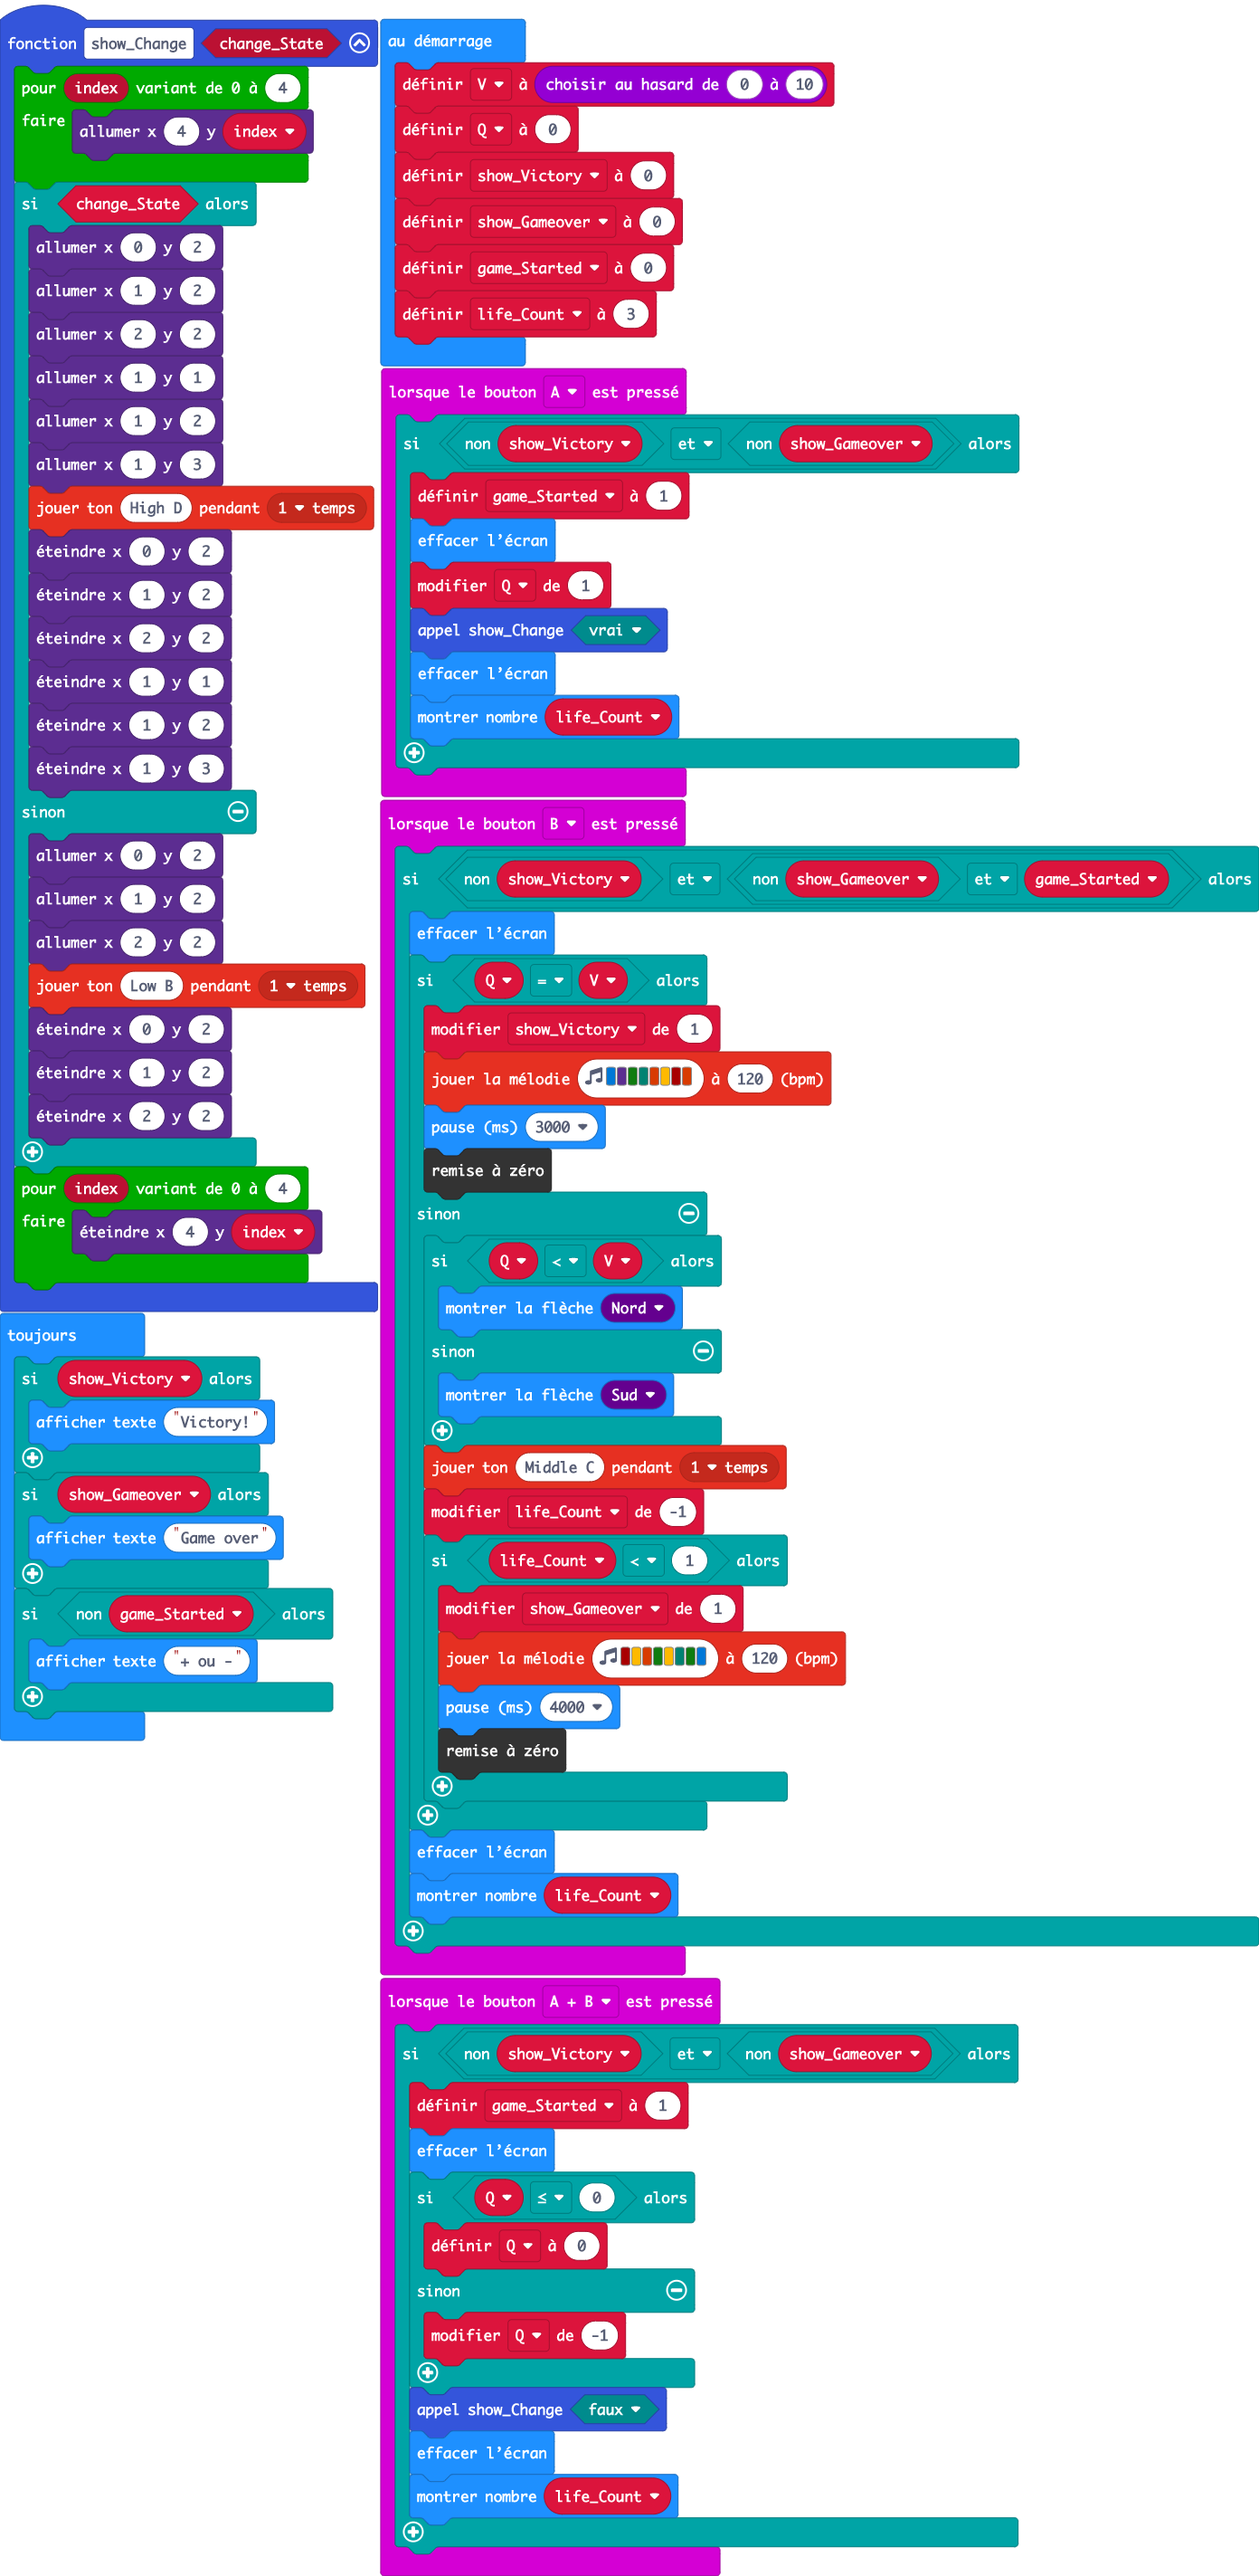
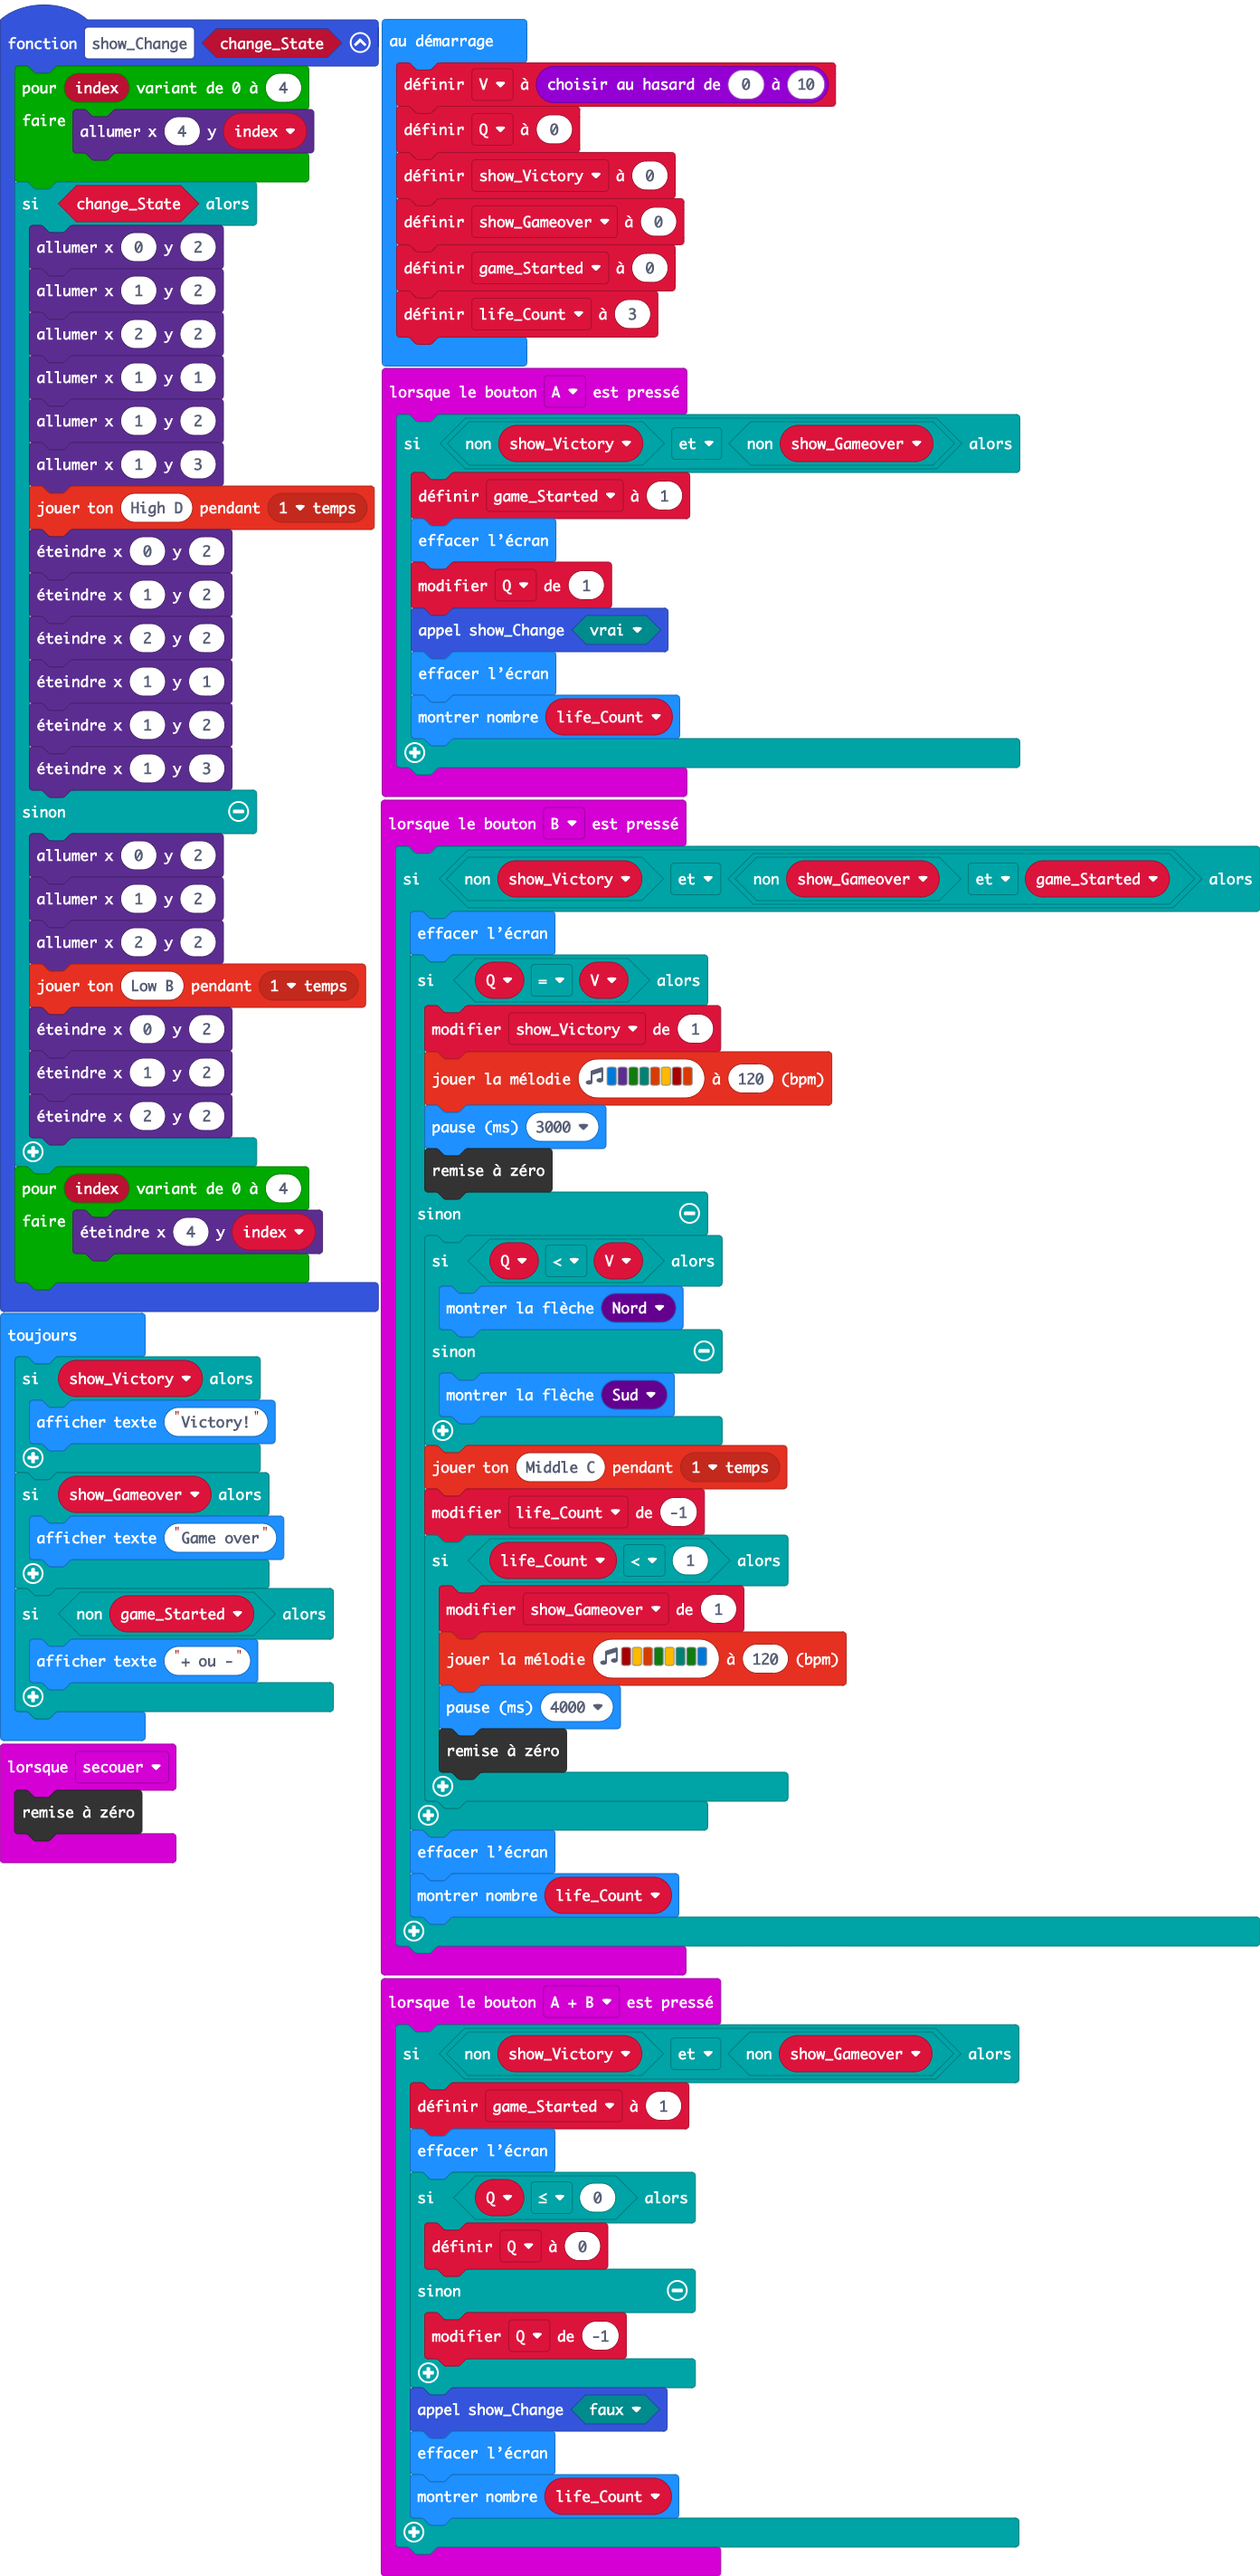
Adding Shake reset

diff --git a/main.ts b/main.ts
@@ -80,6 +80,9 @@ input.onButtonPressed(Button.B, function () {
         basic.showNumber(life_Count)
     }
 })
+input.onGesture(Gesture.Shake, function () {
+    control.reset()
+})
 let life_Count = 0
 let game_Started = 0
 let show_Gameover = 0
